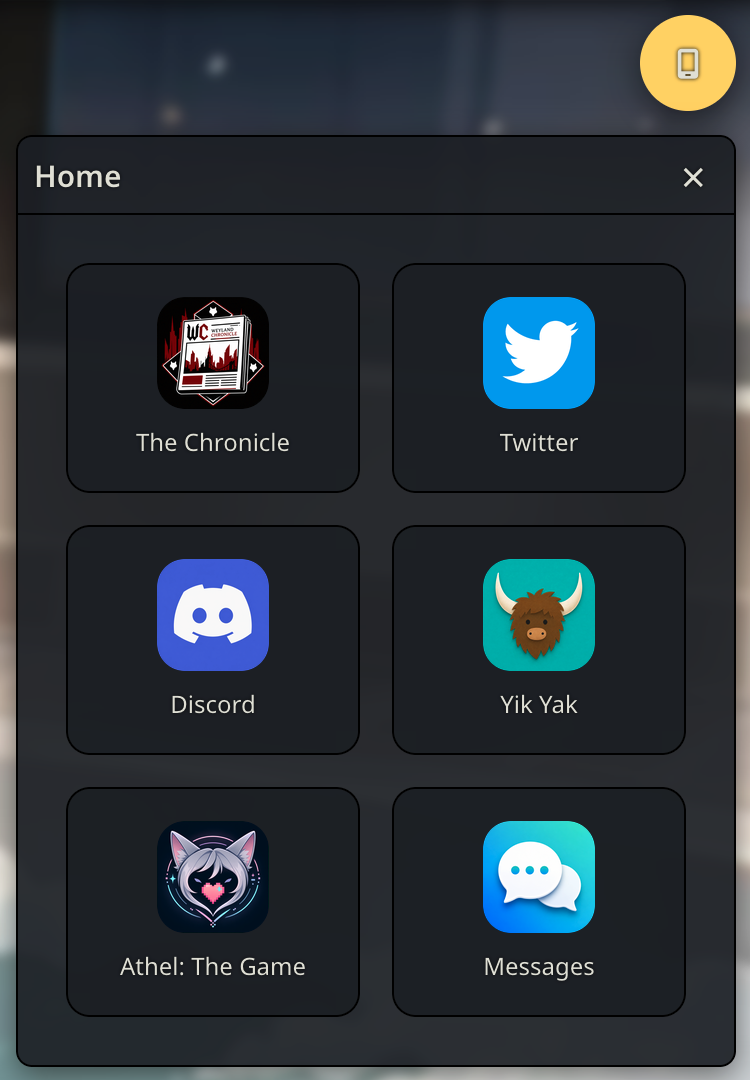
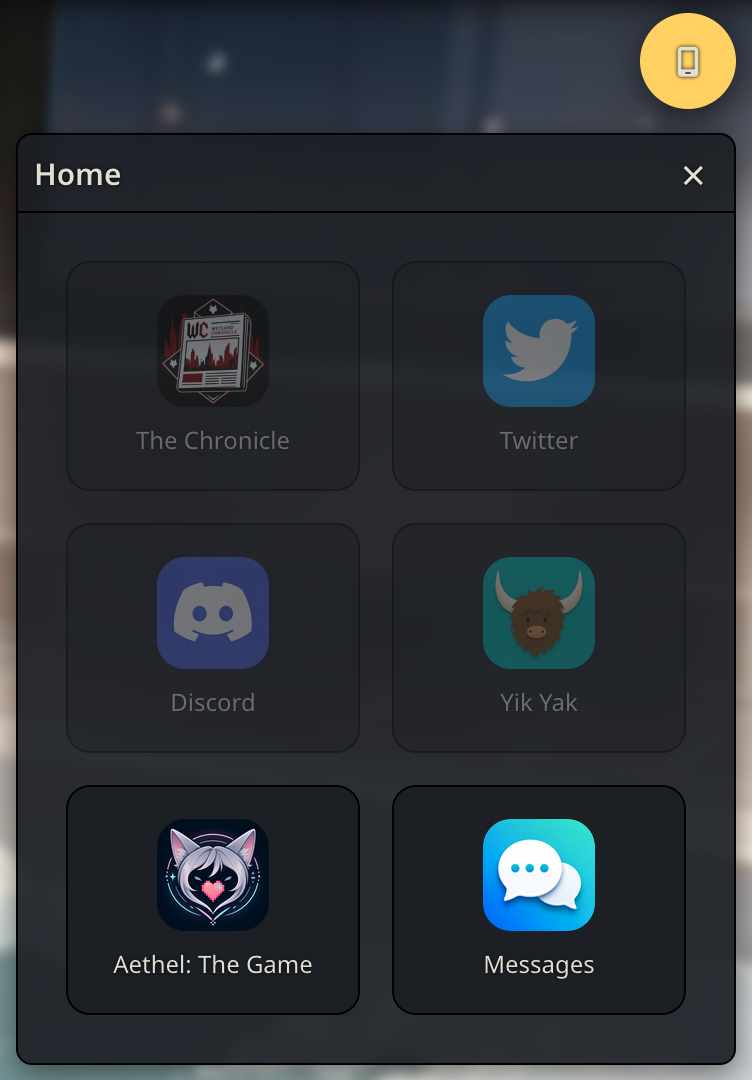
fix: rename internal 'athel' key/slug to 'aethel', update home-screen screenshot

diff --git a/test/storage.test.js b/test/storage.test.js
@@ -543,8 +543,8 @@ test('migrateTetheredFields does not overwrite existing tethered data', () => {
 
 test('createConversation with isDedicatedApp tags the conversation record', () => {
     const settings = { conversations: {} };
-    const conv = createConversation(settings, 'Aethel', { isDedicatedApp: 'athel' });
-    assert.equal(conv.isDedicatedApp, 'athel');
+    const conv = createConversation(settings, 'Aethel', { isDedicatedApp: 'aethel' });
+    assert.equal(conv.isDedicatedApp, 'aethel');
 });
 
 test('createConversation without options has no isDedicatedApp tag', () => {
@@ -556,7 +556,7 @@ test('createConversation without options has no isDedicatedApp tag', () => {
 test('getAllConversationSummaries excludes conversations tagged with isDedicatedApp', () => {
     const settings = { conversations: {} };
     createConversation(settings, 'Blake');
-    createConversation(settings, 'Aethel', { isDedicatedApp: 'athel' });
+    createConversation(settings, 'Aethel', { isDedicatedApp: 'aethel' });
     const summaries = getAllConversationSummaries(settings);
     assert.equal(summaries.length, 1);
     assert.equal(summaries[0].charName, 'Blake');
@@ -564,8 +564,8 @@ test('getAllConversationSummaries excludes conversations tagged with isDedicated
 
 test('findOrCreateDedicatedAppConversation creates one on first call, reuses it on subsequent calls', () => {
     const settings = { conversations: {} };
-    const first = findOrCreateDedicatedAppConversation(settings, 'Aethel', 'athel');
-    const second = findOrCreateDedicatedAppConversation(settings, 'Aethel', 'athel');
+    const first = findOrCreateDedicatedAppConversation(settings, 'Aethel', 'aethel');
+    const second = findOrCreateDedicatedAppConversation(settings, 'Aethel', 'aethel');
     assert.equal(first.id, second.id);
     assert.equal(Object.keys(settings.conversations).length, 1);
 });
@@ -573,15 +573,15 @@ test('findOrCreateDedicatedAppConversation creates one on first call, reuses it 
 test('findOrCreateDedicatedAppConversation reuses an existing untagged conversation for the same charName, via the unified charName-based lookup (Task 8 design change: thread identity is charName-only, isDedicatedApp no longer gates lookup)', () => {
     const settings = { conversations: {} };
     const existing = createConversation(settings, 'Aethel'); // untagged, e.g. a pre-existing regular thread
-    const found = findOrCreateDedicatedAppConversation(settings, 'Aethel', 'athel');
+    const found = findOrCreateDedicatedAppConversation(settings, 'Aethel', 'aethel');
     assert.equal(found.id, existing.id);
     assert.equal(Object.keys(settings.conversations).length, 1);
 });
 
 test('getThreadsFor returns ALL threads for a character, including isDedicatedApp-tagged ones', () => {
     const settings = { conversations: {} };
-    createConversation(settings, 'Aethel', { isDedicatedApp: 'athel' });
-    createConversation(settings, 'Aethel', { isDedicatedApp: 'athel' });
+    createConversation(settings, 'Aethel', { isDedicatedApp: 'aethel' });
+    createConversation(settings, 'Aethel', { isDedicatedApp: 'aethel' });
     createConversation(settings, 'Blake');
     const threads = getThreadsFor(settings, 'Aethel');
     assert.equal(threads.length, 2);
@@ -600,8 +600,8 @@ test('getThreadsFor sorts most-recent-first', () => {
 
 test('findMostRecentThread returns the most recently active match regardless of isDedicatedApp tagging', () => {
     const settings = { conversations: {} };
-    const first = createConversation(settings, 'Aethel', { isDedicatedApp: 'athel' });
-    const second = createConversation(settings, 'Aethel', { isDedicatedApp: 'athel' });
+    const first = createConversation(settings, 'Aethel', { isDedicatedApp: 'aethel' });
+    const second = createConversation(settings, 'Aethel', { isDedicatedApp: 'aethel' });
     first.lastActive = second.lastActive + 1000;
     const found = findMostRecentThread(settings, 'Aethel');
     assert.equal(found.id, first.id);
@@ -614,9 +614,9 @@ test('findMostRecentThread returns undefined for a character with no threads at 
 
 test('findOrCreateDedicatedAppConversation resumes the most recently active thread via the unified lookup, not just the first one found', () => {
     const settings = { conversations: {} };
-    const first = createConversation(settings, 'Aethel', { isDedicatedApp: 'athel' });
-    const second = createConversation(settings, 'Aethel', { isDedicatedApp: 'athel' });
+    const first = createConversation(settings, 'Aethel', { isDedicatedApp: 'aethel' });
+    const second = createConversation(settings, 'Aethel', { isDedicatedApp: 'aethel' });
     first.lastActive = second.lastActive + 1000;
-    const found = findOrCreateDedicatedAppConversation(settings, 'Aethel', 'athel');
+    const found = findOrCreateDedicatedAppConversation(settings, 'Aethel', 'aethel');
     assert.equal(found.id, first.id);
 });

diff --git a/lib/panel.js b/lib/panel.js
@@ -92,7 +92,7 @@ const APP_ICONS = {
     discord: `${ASSET_BASE_URL}/weyphone_discord.png`,
     yikyak: `${ASSET_BASE_URL}/weyphone_yikyak.png`,
     twitter: `${ASSET_BASE_URL}/weyphone_twitter.png`,
-    athel: `${ASSET_BASE_URL}/weyphone_aethel.png`,
+    aethel: `${ASSET_BASE_URL}/weyphone_aethel.png`,
 };
 
 /**
@@ -122,8 +122,8 @@ export function renderAppGridScreen(container, { flavorAppsEnabled }) {
         <div class="wp-app-icon"><img src="${APP_ICONS.yikyak}" alt="" /></div>
         <div class="wp-app-label">Yik Yak</div>
     </div>
-    <div class="wp-app-tile" data-app="athel">
-        <div class="wp-app-icon"><img src="${APP_ICONS.athel}" alt="" /></div>
+    <div class="wp-app-tile" data-app="aethel">
+        <div class="wp-app-icon"><img src="${APP_ICONS.aethel}" alt="" /></div>
         <div class="wp-app-label">Aethel: The Game</div>
     </div>
     <div class="wp-app-tile" data-app="messages">

diff --git a/index.js b/index.js
@@ -933,7 +933,7 @@ function openAethelConversation() {
         return;
     }
     const settings = getSettings(context.extensionSettings);
-    const conversation = findOrCreateDedicatedAppConversation(settings, 'Aethel', 'athel');
+    const conversation = findOrCreateDedicatedAppConversation(settings, 'Aethel', 'aethel');
     context.saveSettingsDebounced();
     currentConversationId = conversation.id;
     showScreen('conversation');
@@ -1047,7 +1047,7 @@ function handleScreenBodyClick(event) {
             showScreen('messages');
         } else if (appKey === 'twitter') {
             showScreen('twitter-feed');
-        } else if (appKey === 'athel') {
+        } else if (appKey === 'aethel') {
             openAethelConversation();
         } else {
             currentPhoneApp = appKey;

diff --git a/lib/storage.js b/lib/storage.js
@@ -34,7 +34,7 @@ function genId() {
  * @param {{conversations: Record<string, Conversation>}} settings WeyPhone settings (see lib/config.js)
  * @param {string} charName
  * @param {{isDedicatedApp?: string}} [options] tag this conversation as belonging to a dedicated
- *   Home-grid app (e.g. 'athel') rather than a normal user-created conversation — excludes it from
+ *   Home-grid app (e.g. 'aethel') rather than a normal user-created conversation — excludes it from
  *   getAllConversationSummaries, see findOrCreateDedicatedAppConversation below.
  * @returns {Conversation}
  */
